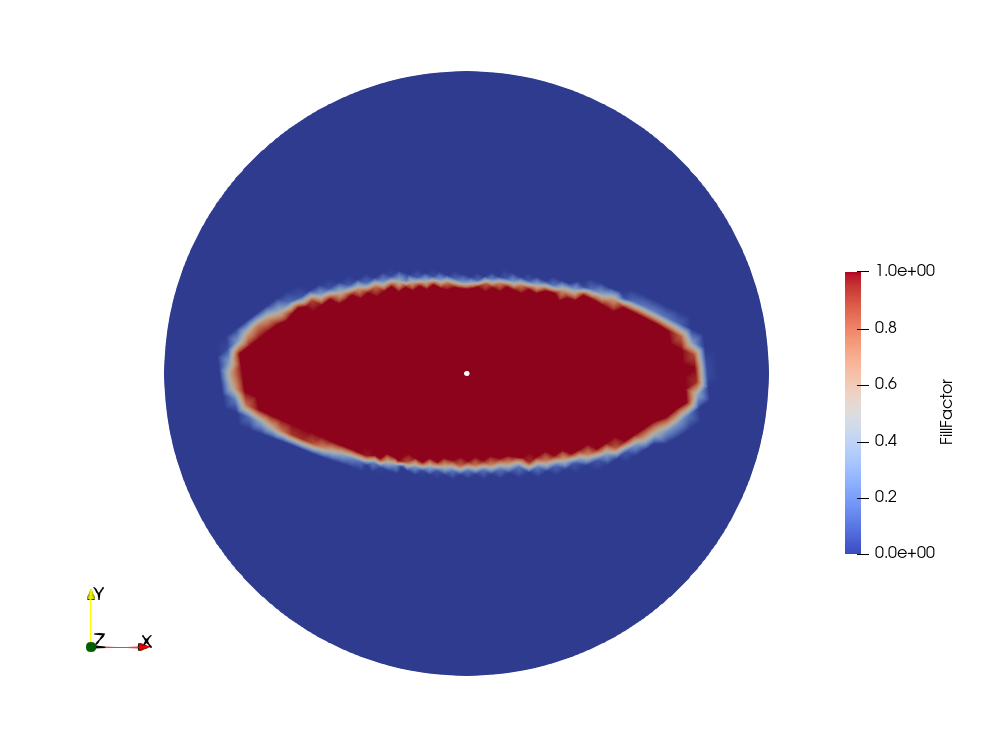
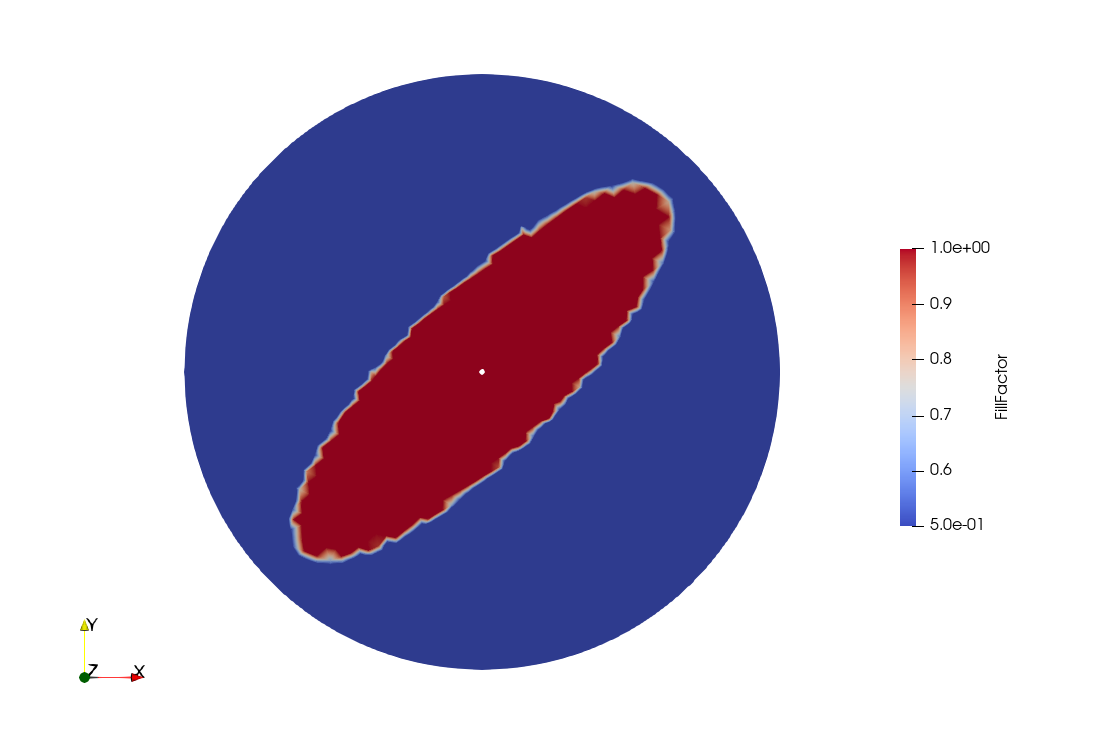
updated some tutorials

diff --git a/examples/scripts/radial_infusion.py b/examples/scripts/radial_infusion.py
@@ -7,9 +7,9 @@ mesh_reader = liz.Reader("../meshes/Radial.msh")
 liz.ProcessParameters.assign(mu=0.1, wo_delta_time=500)
 
 # add a material to each material tag present in the mesh
-rosette_1 = liz.Rosette((1,0,0))
-material_1 = liz.PorousMaterial(1E-10, 1E-10, 1E-10, 0.5, 1.0)
-liz.MaterialManager.add_material('domain', material_1, rosette_1)
+rosette = liz.Rosette((1,1,0))
+material = liz.PorousMaterial(1E-10, 1E-11, 1E-10, 0.5, 1.0)
+liz.MaterialManager.add_material('domain', material, rosette)
 
 # Create a lizzy mesh object
 mesh = liz.Mesh(mesh_reader)

diff --git a/docs/tutorials/radial_aniso.md b/docs/tutorials/radial_aniso.md
@@ -20,9 +20,13 @@ As usual, we must assign some process parameters to the `ProcessParameters`:
 ```
 liz.ProcessParameters.assign(mu=0.1, wo_delta_time=100)
 ```
-Next, we will define the properties of the material. Only one material domains is present in the mesh (_domain_), however we want to create an anisotropic material. We will assign different principal permeabiliy values:
+Next, we will define the properties of the material. Only one material domains is present in the mesh (_domain_), however we want to create an anisotropic material. We also want the material principal directions to be aligned with some arbitrary global direction. To do so, we will create a `Rosette` object:
 ```
-rosette = liz.Rosette((1,0,0))
+rosette = liz.Rosette((1,1,0))
+```
+To instantiate a rosette, we pass the first principal direction of the material as a vector in global x,y,z coordinates. In this case, the vector `(1,1,0)` is oriented at 45$^\circ$ from the global x-axis. The rosette is always projected onto all the elements of the material it is assigned to, along each element normal direction.
+Now we can create an anisotropic material by specifying its principal permeability values ($k_1,k_2,k_3$), and assign it to the domain tag along with the rosette:
+```
 material = liz.PorousMaterial(1E-10, 1E-11, 1E-10, 0.5, 1.0)
 liz.MaterialManager.add_material('domain', material, rosette)
 ```
@@ -66,9 +70,9 @@ mesh_reader = liz.Reader("../meshes/Radial.msh")
 liz.ProcessParameters.assign(mu=0.1, wo_delta_time=500)
 
 # add a material to each material tag present in the mesh
-rosette_1 = liz.Rosette((1,0,0))
-material_1 = liz.PorousMaterial(1E-10, 1E-10, 1E-10, 0.5, 1.0)
-liz.MaterialManager.add_material('domain', material_1, rosette_1)
+rosette = liz.Rosette((1,1,0))
+material = liz.PorousMaterial(1E-10, 1E-11, 1E-10, 0.5, 1.0)
+liz.MaterialManager.add_material('domain', material, rosette)
 
 # Create a lizzy mesh object
 mesh = liz.Mesh(mesh_reader)
@@ -94,4 +98,4 @@ Load up the file `Radial_RES.xdmf` into Paraview to visualise the results:
 <img src="../images/Radial_fill.png" alt="Radial fill solution" width="720">
 </div>
 
-We can see the typical elliptical flow front pattern that arises from the classical radial infusions.
+We can see the typical elliptical flow front pattern that arises from the classical radial infusions. The ellipse is rotated according to the assigned rosette.

diff --git a/docs/validation.md b/docs/validation.md
@@ -16,28 +16,30 @@ To conduct the channel flow experiment, we will use the following values:
 By plugging the values in Eq. (XXXX), and considering a distance L = 1m, we obtain a theoretical arrival time of: $t_{ref}$ = **2500s**. This shall be considered as the reference solution.
 
 ### Lizzy solution
-We construct a rectangular mesh os dimensions L x W:
-- L = 1 m
-- W = 0.5 m
+The simulated scenario is the same as seen in [Channel flow experiment](./tutorials/rect.md) tutorial, with dimensions L = 1 m, W = 0.5 m
+
+<p align="center">
+  <img src="./images/validation_rect_mesh.png" alt="Alt text" height=300 />
+  <img src="./images/validation_rect_fill.png" alt="Alt text" height=300 />
+</p>
+
+Running the simulation with increasing number of elements we obtain the following results:
+
+| Number of elements | Fill time [s] | % Error |
+|:-------------------|:-------------:|--------:|
+| 16                 |    2530.1     |    1.20 |
+| 64                 |    2510.5     |    0.42 |
+| 256                |    2503.4     |    0.13 |
+| 1024               |    2501.0     |    0.04 |
+| 4096               |    2500.3     |    0.01 |
+
 
 <div style="display: flex; justify-content: center;">
-<img src="tutorials/images/validation_rect_mesh.png" alt="Alt text" width="450">
-</div>
-
-Assigning the values and running the simulation we obtain the following fill times as function of number of elements in the mesh:
-
-<div style="display: flex; justify-content: center;">
-<img src="tutorials/images/validation_rect_fill.png" alt="Alt text" width="450">
-</div>
-
-
-<div style="display: flex; justify-content: center;">
-<img src="tutorials/images/validation_rect_err.png" alt="Alt text" width="450">
+<img src="./images/validation_rect_err.png" alt="Alt text" width="450">
 </div>
 
 As the number of elements increases, the fill time of the part approaches the theoretical solution and the error decreases.
 
 ## Radial flow experiment
-For this validation we will replicate the radial infusion experiment from
+For this validation we simulate a radial infusion experiment with an isotropic material. The analytical solution for time of arrival of the flow front at a radial distance $R$ from the center is:
 
-The analytical solution for time of arrival of the flow front at a radial distance $R$ from the center is:

diff --git a/README.md b/README.md
@@ -13,7 +13,7 @@ The name "Lizzy" was inspired by the character of Elizabeth Bennet, companion of
 ### Development stage and Issues
 This project is still in early development stage and has **not reached a release version** yet.
 While the solver results are generally correct, there may still be cases where it fails.
-It is recommended to wait for a first release before using Lizzy for your research. On the other hand, use of Lizzy for testing is welcome. If you do use Lizzy and encounter some issue, you can help improve the software faster by reporting what you encountered in the Issues section.
+If you do use Lizzy and encounter some issue, you can help improve the software faster by reporting what you encountered in the [Issues](https://github.com/simonebancora/Lizzy/issues) section.
 
 ## Installation
 Lizzy is provided as a package.
